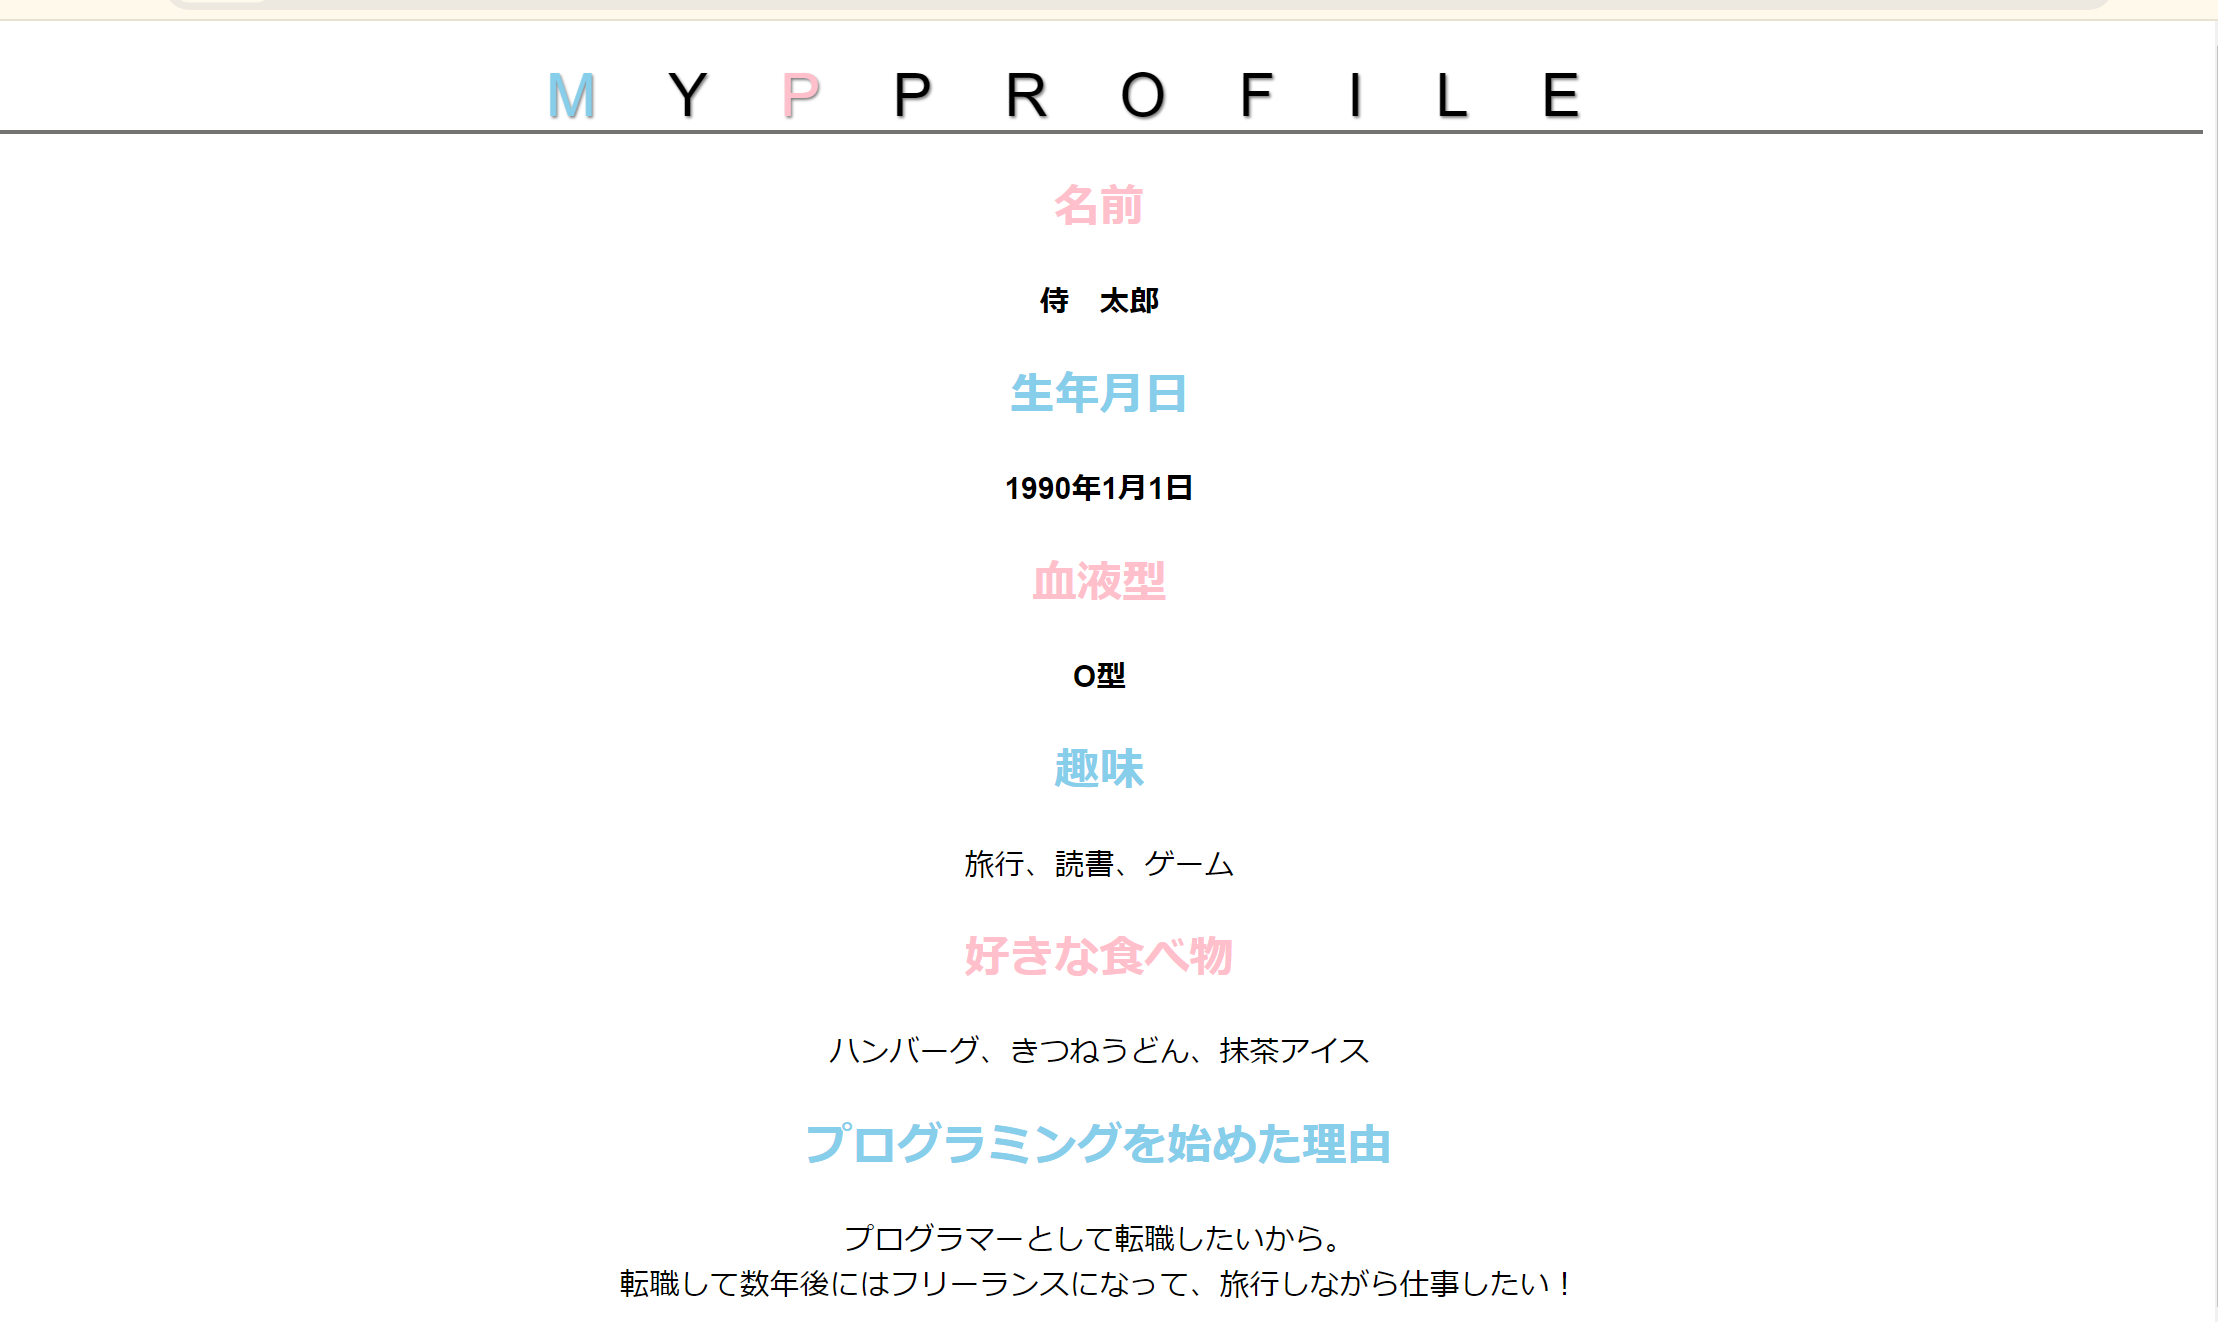
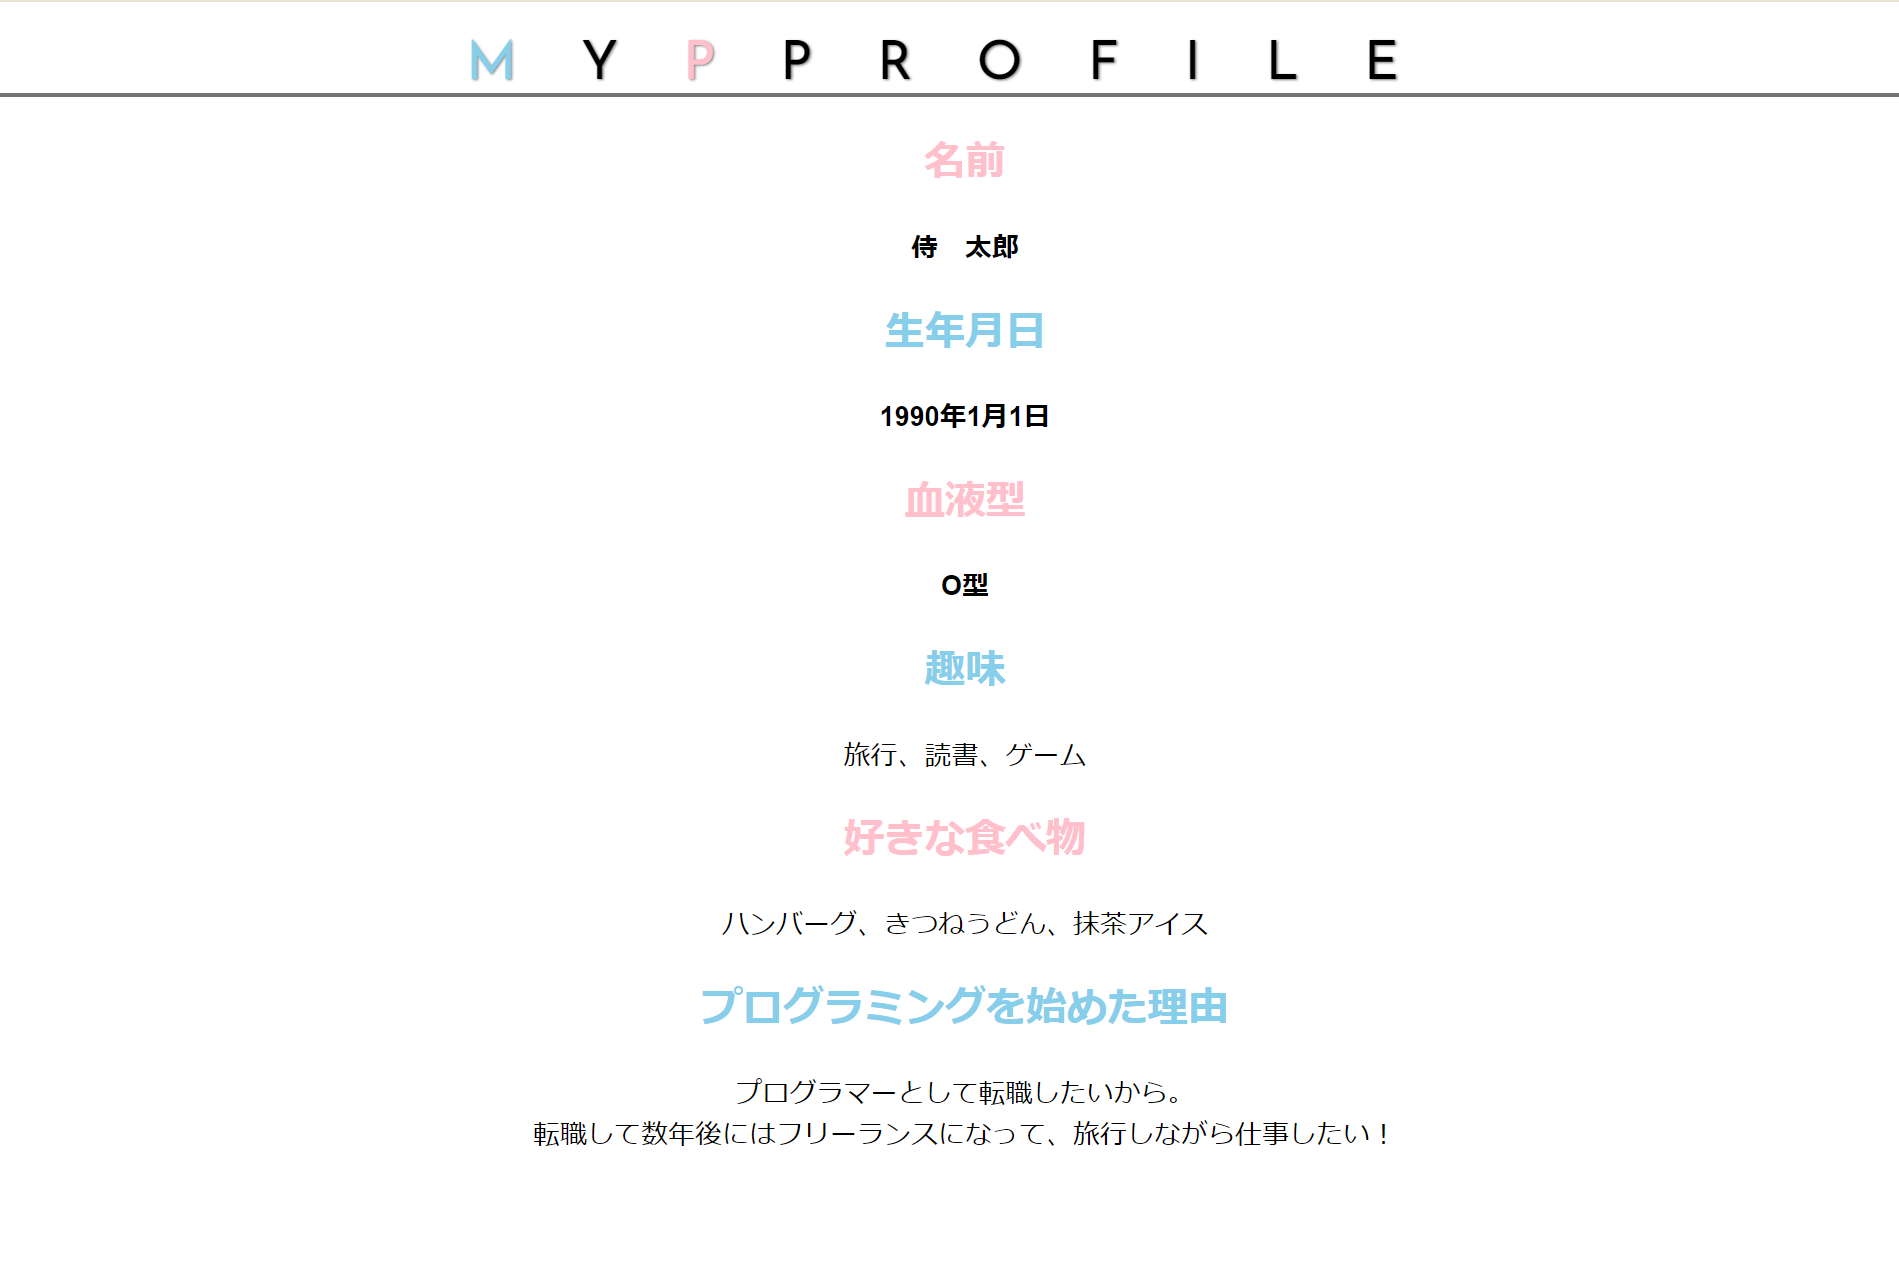
Myprofile

diff --git a/Kadai_014/style.css b/Kadai_014/style.css
@@ -17,7 +17,8 @@ body{
   font-style: normal;
 }
 h1{
-  font-size: 40px;
+  font-family: 'Josefin Sans', sans-serif;
+  font-size: 2em;
   letter-spacing: 1.2em;
   text-shadow: 1px 1px 2px gray;
   border-bottom: solid 3px rgb(115, 115, 114);
